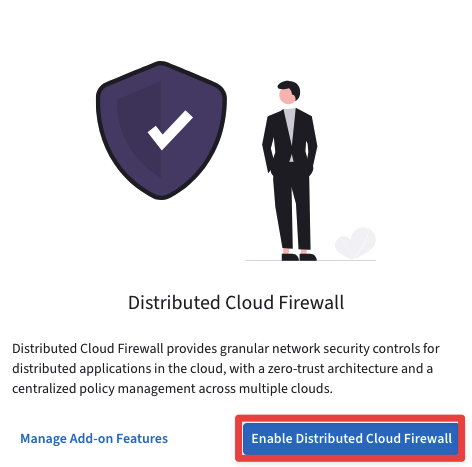
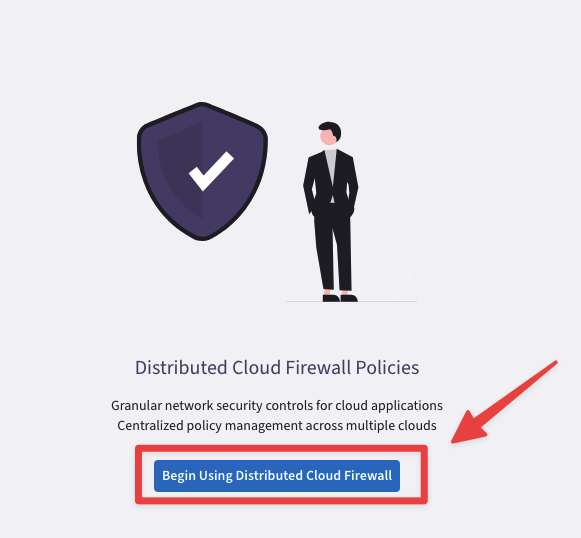
update for ops

diff --git a/ace_ops/docs/lab7.md b/ace_ops/docs/lab7.md
@@ -75,58 +75,72 @@ ace-azure-east-us-spoke1
 - Enable the **Distributed Cloud Firewall** feature.
 
 ```{tip}
-Navigate to **CoPilot > Security > Distributed Cloud Firewall** and then click on the `"Enable Distributed Cloud Firewall"` button, then to the subsequent `"Begin Using Distributed Cloud Firewall"` button, and last but not least to the `"Begin"` button
+Navigate to **CoPilot > Security > Distributed Cloud Firewall** and then click on the `"Begin Using Distributed Cloud Firewall"` button, then to the subsequent `"Begin Using Distributed Cloud Firewall"` button, and last but not least to the `"Begin"` button
 ```
 
 ```{figure} images/lab7-enabledcf01.png
 ---
 align: center
 ---
-Enable DCF message
+Begin Using Distributed Cloud Firewall
 ```
 
 ```{figure} images/lab7-enabledcf0222.png
 ---
 align: center
 ---
-Begin using DCF message
-```
-
-```{figure} images/lab7-enabledcf0322.png
----
-align: center
----
 Begin
 ```
 
-The Aviatrix Controller has applied a `Greenfield-Rule` that allows all traffic; you should see this immediately.
+The Aviatrix Controller has pushed a `Default- Action Rule` permitting all traffic; you should observe the impact right away.
 
 ```{figure} images/lab7-enabledcf0411.png
+---
+align: center
+---
+Default Action Rule
+```
+
+Now, click **Ruleset** and select the `V1 Policy List`.
+
+```{figure} images/lab7-greenfield5666.png
+---
+align: center
+---
+V1 Policy List
+```
+
+- Create a new rule clicking on the **"+ Rule"** button.
+
+```{figure} images/lab7-greenfield56661.png
+---
+align: center
+---
+New Rule
+```
+
+Enter the following parameters:
+
+- **Name**: <span style='color:#479608'>Greenfield-Rule</span>
+- **Source Smartgroups**: <span style='color:#479608'>Anywhere(0.0.0.0/0)</span>
+- **Destination Smartgroups**: <span style='color:#479608'>Anywhere(0.0.0.0/0)</span>
+- **Protocol**: <span style='color:#479608'>Any</span>
+- **Logging**: <span style='color:#479608'>**On**</span>
+- **Action**: <span style='color:#479608'>Permit</span>
+
+Do not forget to click on **Save In Drafts**.
+
+```{figure} images/lab7-greenfield566612.png
 ---
 align: center
 ---
 Greenfield-Rule
 ```
 
-- Enable the `"Logging"` on the Greenfield-Rule.
+Click on **Commit**.
 
-```{tip}
-Click on the Actions icon to the right of the **Greenfield-Rule** end select "Turn On Logging".
-```
-
-```{figure} images/lab7-editgreen.png
+```{figure} images/lab7-greenfield5666123.png
 ---
-height: 150px
-align: center
----
-Edit the Greenfield-Rule
-```
-
-Remember to click on **Commit** to apply the changes to the Data Plane.
-
-```{figure} images/lab7-lastone.png
----
-height: 150px
 align: center
 ---
 Commit

diff --git a/ace_ops/docs/lab5.md b/ace_ops/docs/lab5.md
@@ -18,7 +18,7 @@ Lab 5 Topology
 
 - Verify that the connectivity between **BU1 Frontend** and **BU1 Analytics** is actually broken.
 
-  - Run the ping command from the `Diagnostics Tools` to the private IP address of the **BU1 Analytics**
+  - Run the ping command from the `Diagnostic Tools` to the private IP address of the **BU1 Analytics**
 
 ```{figure} images/lab5-traceroute2812.png
 ---
@@ -110,7 +110,7 @@ align: center
 Delete the malicious route
 ```
 
-- From `Diagnostics Tools`, re-run ping to the private IP address of **BU2 MobileApp**.
+- From `Diagnostic Tools`, re-run ping to the private IP address of **BU2 MobileApp**.
 
 ```{figure} images/lab5-traceroute28123.png
 ---
@@ -131,7 +131,7 @@ Ping is ok
 ### 2.2 BU1 DB is not reachable
 
 - Now verify that the connectivity between **BU1 Frontend** and **BU1 DB** is actually broken.
-  - Run the traceroute command from the `Diagnostics Tools` to the private IP address of the BU1 DB.
+  - Run the traceroute command from the `Diagnostic Tools` to the private IP address of the BU1 DB.
   
 ```{tip}
 Navigate to **CoPilot > Diagnostics > Diagnostics Tools > Gateway Diagnostics**.
@@ -268,7 +268,6 @@ Navigate to **CoPilot > Diagnostics > Cloud Routes > BGP Info** and then click o
 
 ```{figure} images/lab5-bgpinfo.png
 ---
-height: 350px
 align: center
 ---
 Show BGP Learned Routes
